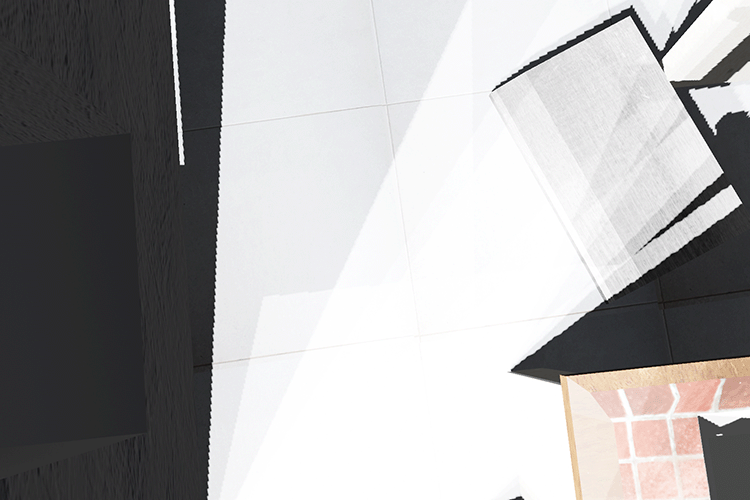
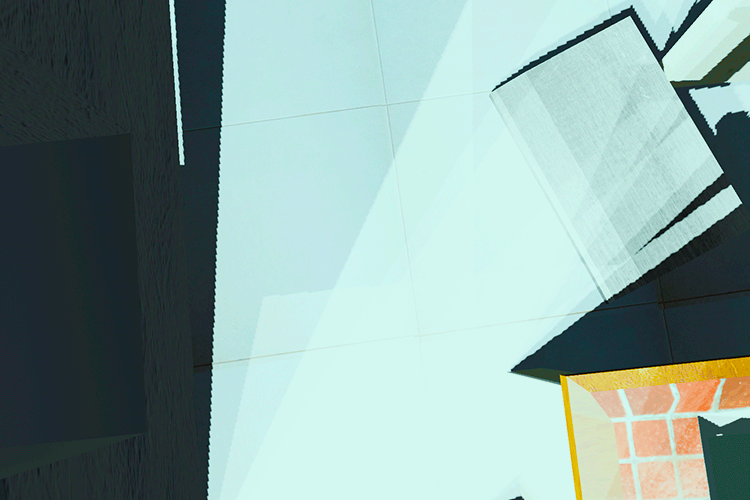
better looking renders
*Added gloomy atmosphere to the renders

diff --git a/sketch.js b/sketch.js
@@ -13,8 +13,8 @@ let door1 = {
   y: 10,
   width: 150,
   height: 350,
-  fill: 'rgb(207,224,207)',
-  floor: 'rgb(85,71,61)',
+  fill: 'rgb(214,248,241)',
+  floor: 'rgb(57,69,67)',
 }
 let door2 = {
   //The second door./
@@ -278,6 +278,7 @@ function fadein(){
 }
 
 function chgPosition(){
+  //player can press space to walk in a given direction
   if(state === "room1"){
     if (position === '0' && (keyIsDown(32) && keyIsDown(78)) && opacity>250){
       opacity = 0;
